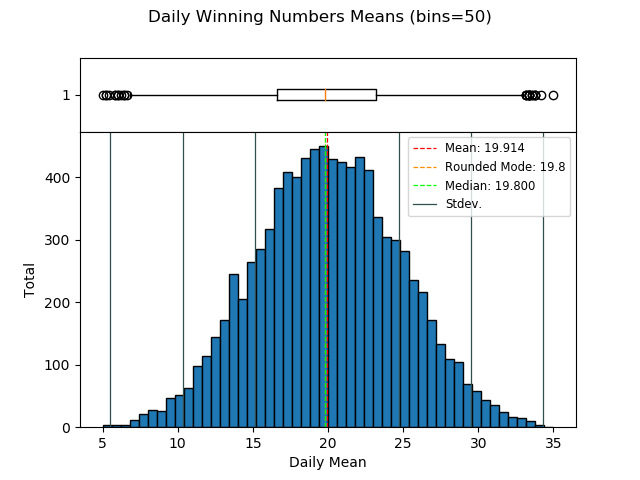
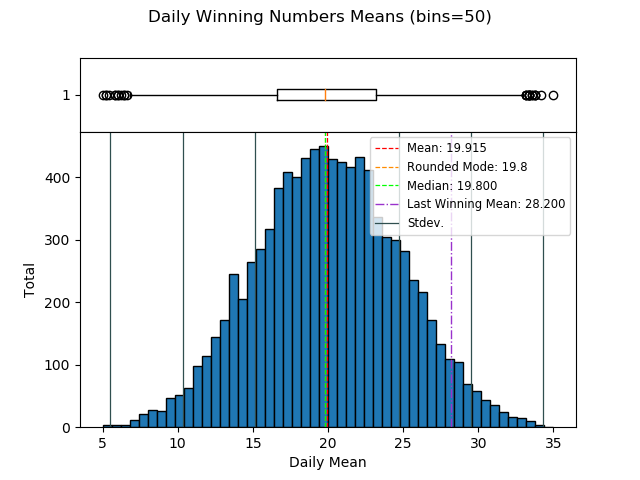
last winning numbers plot

Changed region(s): [[0.5625, 0.2812, 0.875, 0.6562], [0.6875, 0.6875, 0.7188, 0.75]]

diff --git a/README.md b/README.md
@@ -9,7 +9,7 @@ todo: more stats, matlab plots
 ## Options
 ```python3 fantasy5stats.py --help```
 
-## Example Output (2019/04/13)
+## Example Output (2019/04/14)
 
 ![Standard Deviations](stdevs.png "Standard Deviations")
 
